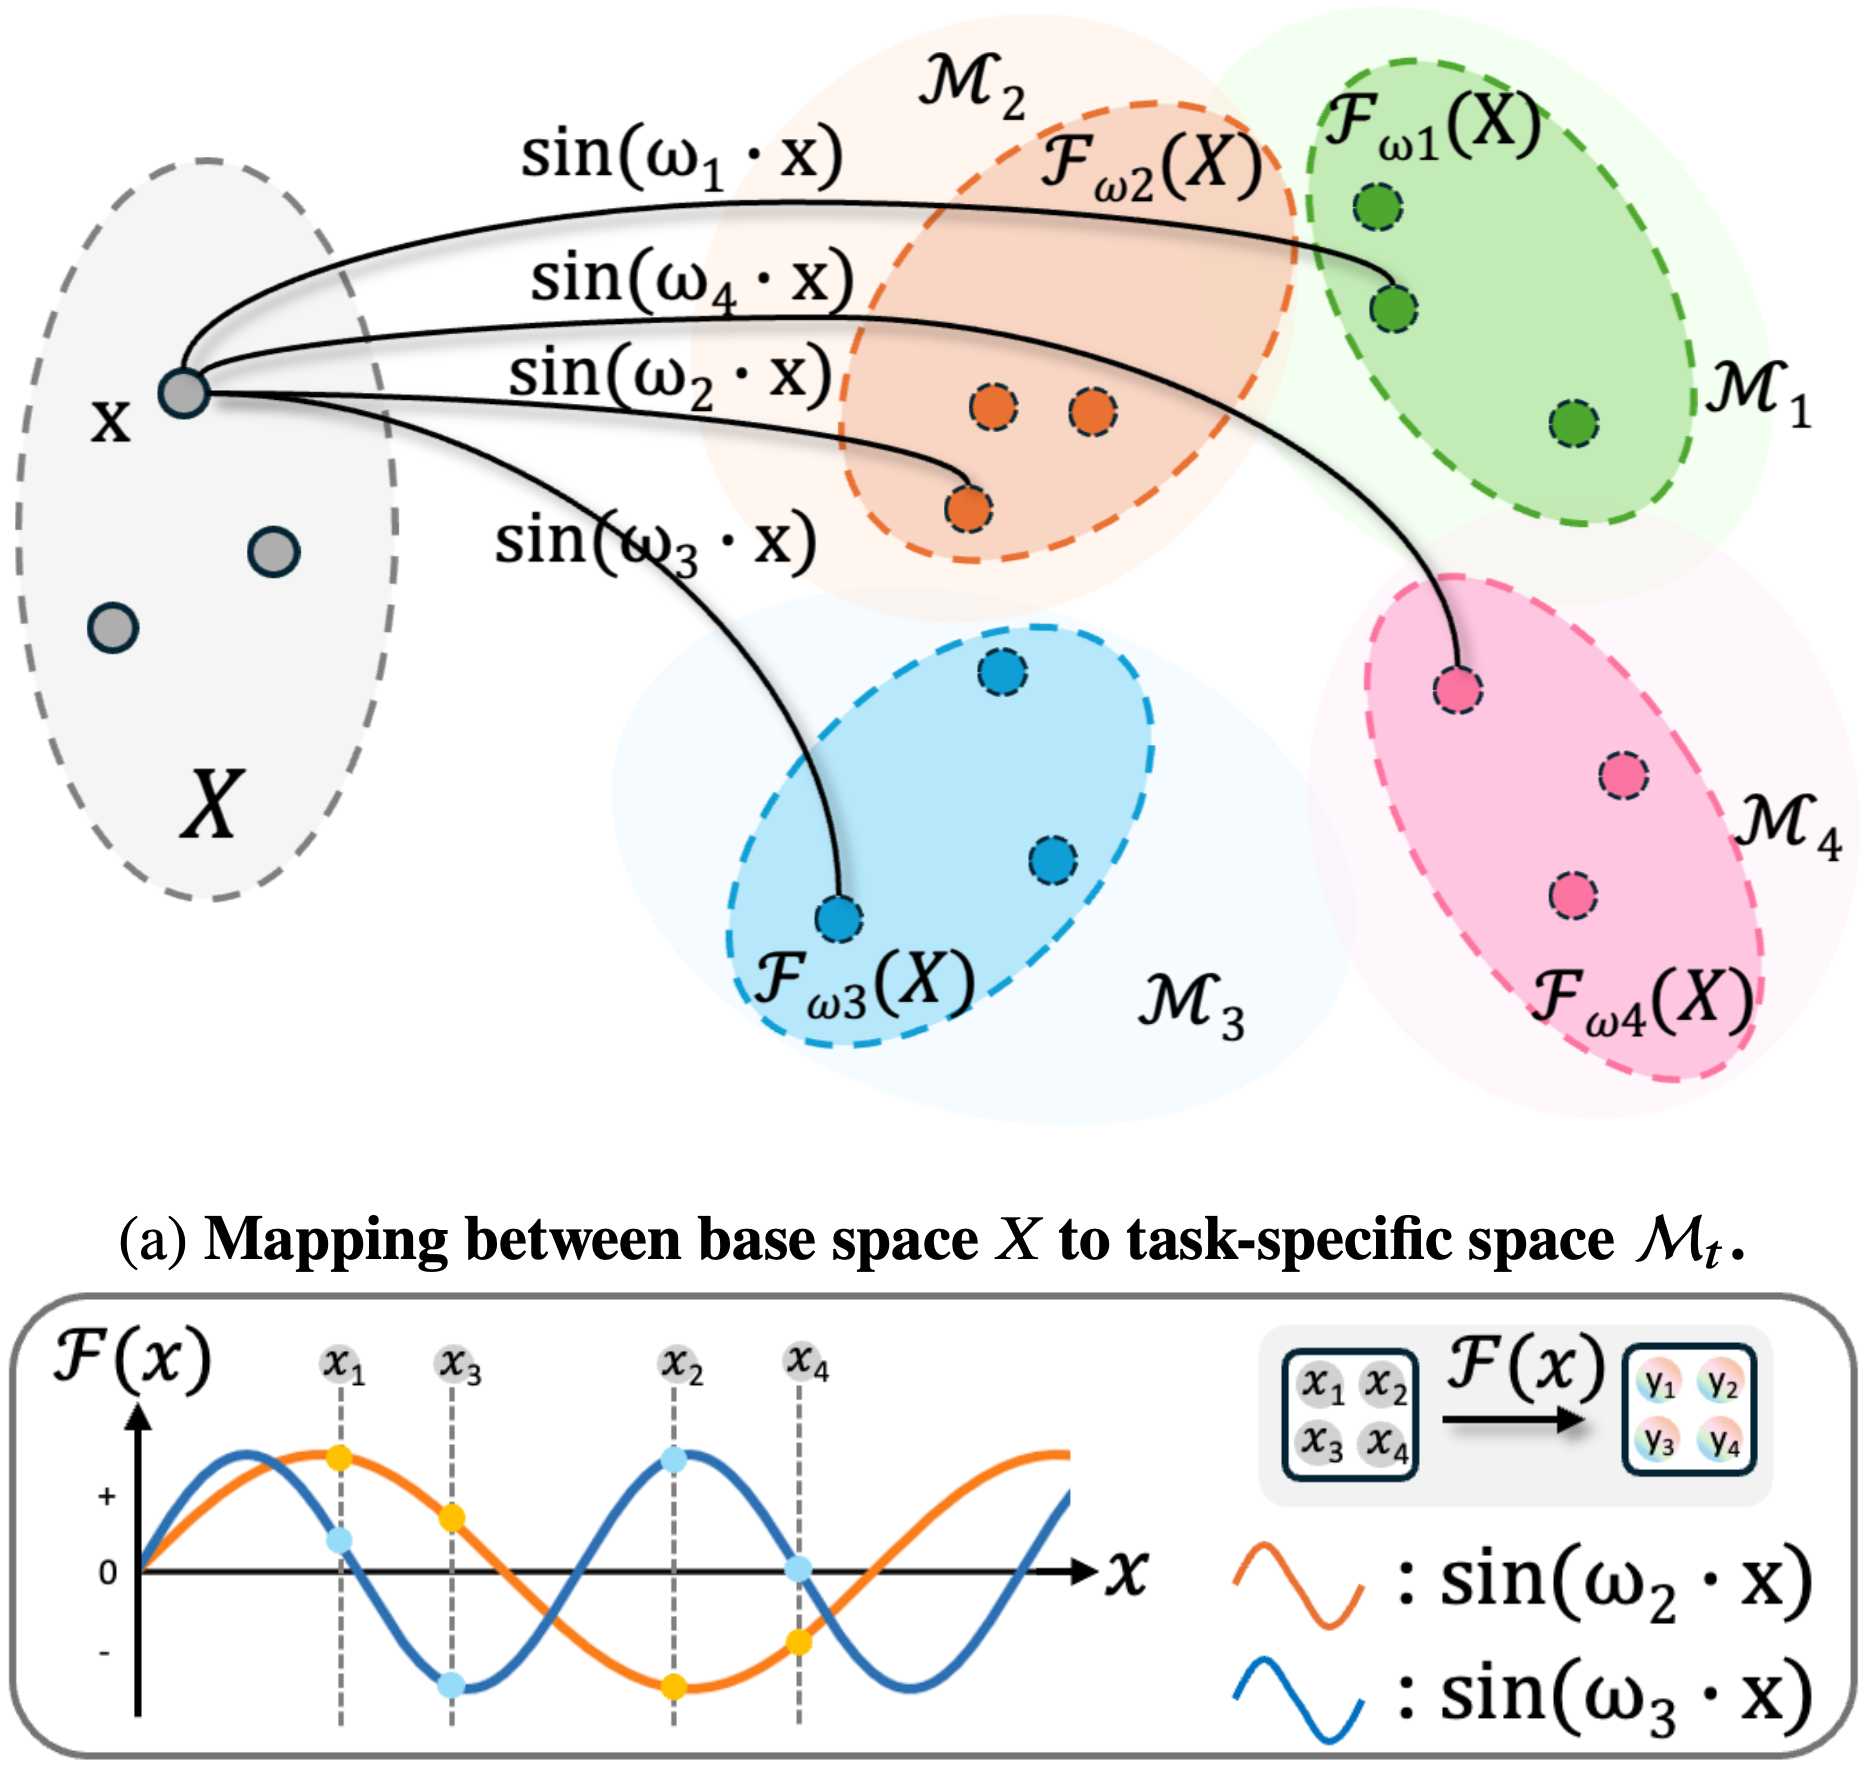
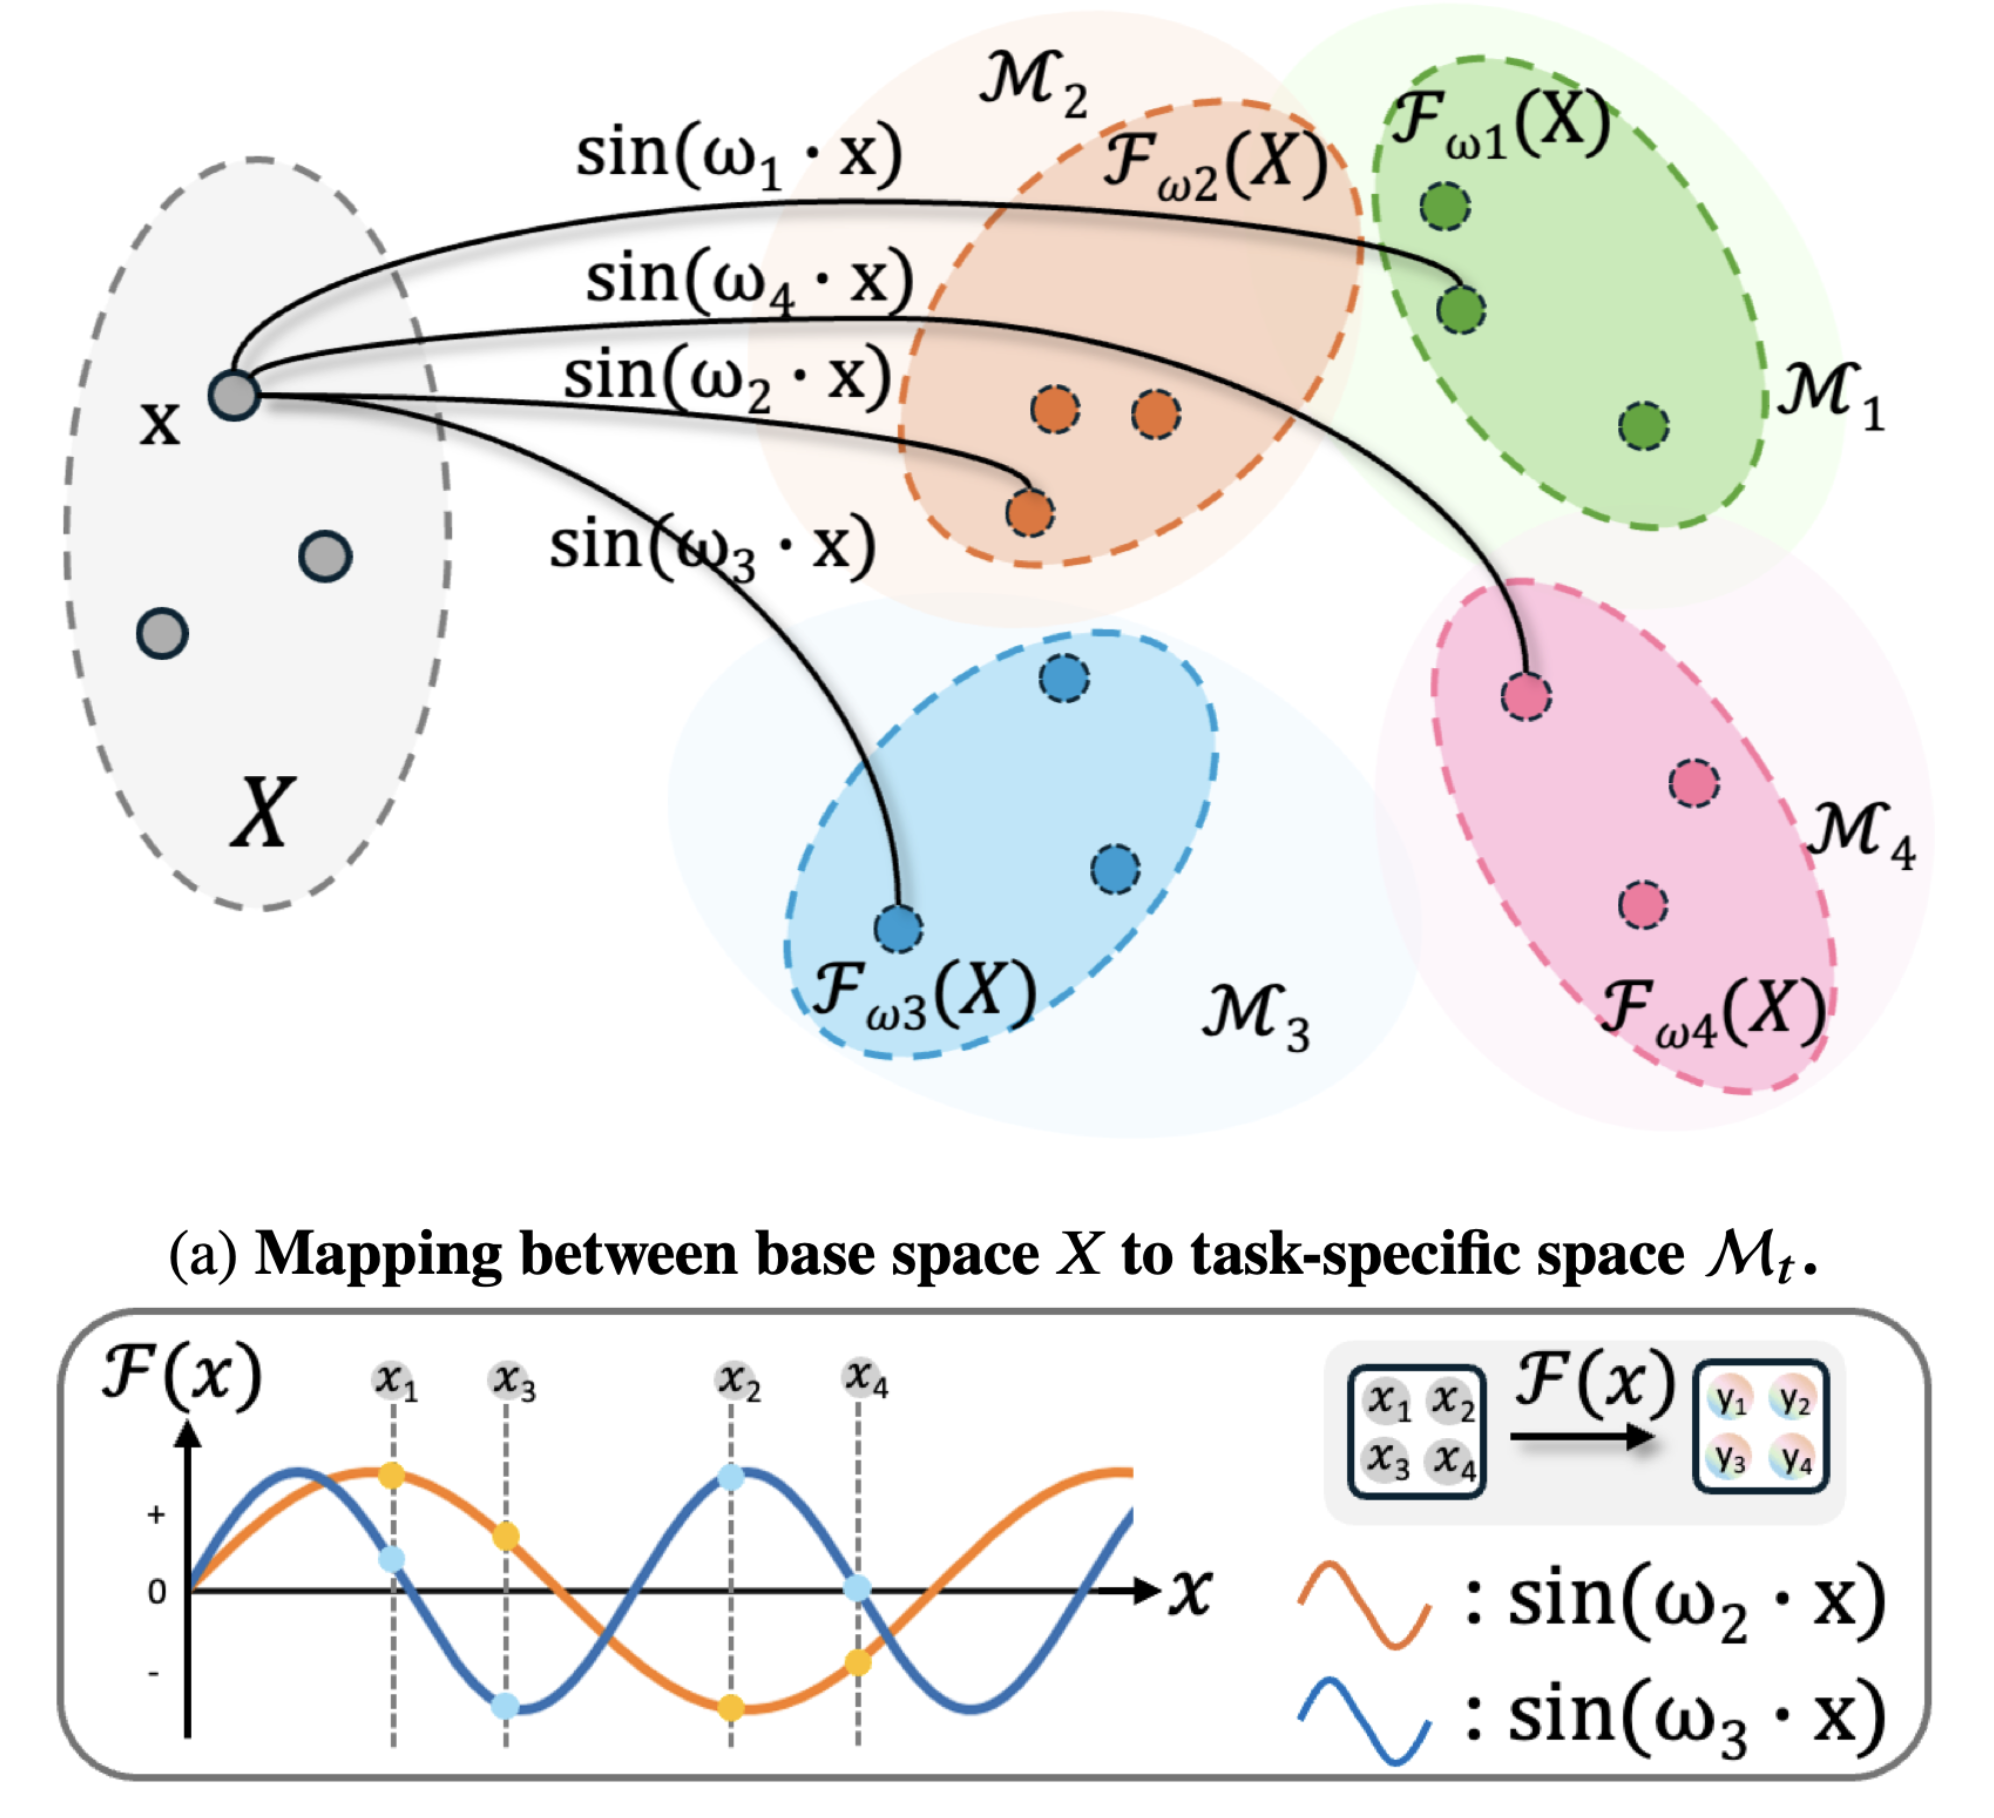
Lightmode, format update

diff --git a/index.html b/index.html
@@ -10,12 +10,15 @@
 <body>
   <!-- TOP TABS -->
   <nav class="tabs">
+    <div class="tab-links">
     <a href="#about">About</a>
     <a href="#publications">Publications</a>
     <a href="#projects">Projects</a>
-    <a href="#experience">Experience</a>
-    <a href="#award">Award</a>
     <a href="#journal">Journal</a>
+    <a href="#experience">Experience</a>
+    <!-- <a href="#award">Award</a> -->
+    </div>
+    <button id="theme-toggle">◐</button>
   </nav>
 
   <div class="layout">
@@ -46,27 +49,82 @@
     </main>
   </div>
   <script>
-    const allowed = new Set(['about','publications','projects','experience','award','journal']);
+  const allowed = new Set(['about','publications','projects','experience','award','journal']);
+  const sectionEl = document.getElementById('section');
 
-    function load(id){
-      if(!allowed.has(id)) id = 'about';
-      fetch(`sections/${id}.html`)
-        .then(r => r.text())
-        .then(html => document.getElementById('section').innerHTML = html);
+  function load(id){
+    if(!allowed.has(id)) id = 'about';
 
-      // optional: highlight active tab
-      document.querySelectorAll('.tabs a').forEach(a=>{
-        a.classList.toggle('active', a.getAttribute('href') === `#${id}`);
+    fetch(`sections/${id}.html`)
+      .then(r => r.text())
+      .then(html => {
+        sectionEl.innerHTML = html;
+
+        // highlight active tab
+        document.querySelectorAll('.tabs a').forEach(a=>{
+          a.classList.toggle('active', a.getAttribute('href') === `#${id}`);
+        });
       });
+  }
+
+  function current(){
+    return location.hash.replace('#','') || 'about';
+  }
+
+  window.addEventListener('hashchange', () => load(current()));
+  load(current());
+
+  // ✅ Journal click handling (dynamic content)
+  sectionEl.addEventListener('click', (e) => {
+    const openBtn = e.target.closest('.journal-open');
+    const backBtn = e.target.closest('.journal-back');
+
+    if (openBtn) {
+      const target = openBtn.dataset.entry;
+      const listView = sectionEl.querySelector('#journal-list');
+      const entryView = sectionEl.querySelector('#journal-entry');
+      const entries = sectionEl.querySelectorAll('.journal-entry-content');
+
+      if (!listView || !entryView) return;
+
+      listView.classList.remove('active');
+      entryView.classList.add('active');
+
+      entries.forEach(x => x.classList.remove('active'));
+      const targetEl = sectionEl.querySelector(`#${CSS.escape(target)}`);
+      if (targetEl) targetEl.classList.add('active');
     }
 
-    function current(){
-      return location.hash.replace('#','') || 'about';
-    }
+    if (backBtn) {
+      const listView = sectionEl.querySelector('#journal-list');
+      const entryView = sectionEl.querySelector('#journal-entry');
+      const entries = sectionEl.querySelectorAll('.journal-entry-content');
 
-    window.addEventListener('hashchange', () => load(current()));
-    load(current());
-  </script>
+      if (!listView || !entryView) return;
+
+      entryView.classList.remove('active');
+      listView.classList.add('active');
+      entries.forEach(x => x.classList.remove('active'));
+    }
+  });
+
+  // ✅ Theme toggle (should be global, not inside section click)
+  const toggleBtn = document.getElementById('theme-toggle');
+
+  function setTheme(mode){
+    document.body.classList.toggle('light', mode === 'light');
+    localStorage.setItem('theme', mode);
+    toggleBtn.textContent = mode === 'light' ? '◐' : '◑';
+  }
+
+  toggleBtn.addEventListener('click', () => {
+    const isLight = document.body.classList.contains('light');
+    setTheme(isLight ? 'dark' : 'light');
+  });
+
+  // Load saved theme
+  setTheme(localStorage.getItem('theme') || 'light');
+</script>
   
 </body>
 </html>

diff --git a/style.css b/style.css
@@ -9,6 +9,7 @@
   --accent: #FFD700;       /* arcade yellow */
   --text: #f0f0f0;         /* soft light gray */
   --border: #273c75;       /* muted royal blue */
+  --avatar-color: #33cc33;
 }
 
 * { box-sizing: border-box; margin: 0; padding: 0; }
@@ -22,7 +23,19 @@ body {
   height: 100vh;
   display: flex;
   flex-direction: column;
+  transition: background 0.3s ease, color 0.3s ease;
 }
+
+body.light {
+  --bg: #f6f8fc;            /* soft academic gray */
+  --sidebar-bg: #ffffff;    /* clean white */
+  --content-bg: #ffffff;    /* clean content card */
+  --accent: #b8860b;        /* elegant gold (less neon) */
+  --text: #1c1c1c;          /* deep charcoal */
+  --border: #dcdfe6;        /* subtle divider */
+  --avatar-color: #0f9d58;
+}
+
 .center-text {
   text-align: center;
 }
@@ -30,9 +43,14 @@ body {
 /* TOP TABS */
 .tabs {
   display: flex;
-  justify-content: center;
+  align-items: center;
+  padding: 0 10rem;
   background: var(--sidebar-bg);
   border-bottom: 1px solid var(--border);
+}
+.tab-links {
+  margin: 0 auto;   /* center the links */
+  display: flex;
 }
 .tabs a {
   padding: 0.8rem 1rem;
@@ -45,6 +63,20 @@ body {
   background: var(--accent);
   color: var(--sidebar-bg);
 }
+
+.tabs button {
+  background: none;
+  border: none;
+  color: var(--accent);
+  font: inherit;
+  cursor: pointer;
+  padding: 0;
+  /* margin-left: auto; */
+}
+
+/* .tabs button:hover {
+  text-decoration: underline;
+} */
 
 .layout {
   display: flex;
@@ -78,7 +110,8 @@ body {
   font-size: 0.8rem;
   text-transform: uppercase;
   letter-spacing: 1px;
-  color: #33cc33;
+  /* color: #33cc33; */
+  color: var(--avatar-color);
   text-align: center;
   margin: 0.5rem 0 1rem;
   line-height: 1.2;
@@ -152,7 +185,7 @@ body {
   margin-bottom: 1.2rem;
 }
 .keyword {
-  color: #33cc33; /* green */
+  color: var(--avatar-color); /* green */
   /* font-weight: bold; */
 }
 
@@ -343,3 +376,31 @@ body {
 }
 
 
+.journal-view { display: none; }
+.journal-view.active { display: block; }
+
+.journal-index { list-style: none; padding: 0; margin-top: 1.5rem; }
+.journal-index li { margin-bottom: 1rem; }
+
+.journal-index button {
+  background: none; border: none;
+  color: var(--accent);
+  font-weight: bold;
+  cursor: pointer;
+  font-size: 1rem;
+  padding: 0;
+}
+.journal-index button:hover { text-decoration: underline; }
+
+.journal-entry-content { display: none; margin-top: 1.5rem; }
+.journal-entry-content.active { display: block; }
+
+.journal-back {
+  background: none;
+  border: none;
+  /* color: white;           make it white */
+  cursor: pointer;
+  padding: 0;
+  font-size: 1.3rem;      /* bigger text */
+  font-weight: bold;      /* stronger presence */
+}

diff --git a/sections/projects.html b/sections/projects.html
@@ -54,7 +54,7 @@
       </div>
       <div class="pub-details">
         <p>
-          <strong>Jetson Nano Real-Time AR Teaching System</strong> [<a href="https://youtu.be/nU0tPs8JyeI" target="_blank">Demo Video</a>]
+          <strong>Jetson Nano Real-Time AR Teaching System</strong> <a href="https://youtu.be/nU0tPs8JyeI" target="_blank">[Demo Video]</a>
         </p>
         <ul>
           <li>Interactive AR platform with live video overlay &amp; image processing on Jetson Nano.</li>
@@ -69,7 +69,7 @@
       </div>
       <div class="pub-details">
         <p>
-          <strong>Desiary - A Novel Diary-Dating App</strong> [<a href="https://youtu.be/t9eveYLJWcg" target="_blank">Demo Video</a>] 
+          <strong>Desiary - A Novel Diary-Dating App</strong> <a href="https://youtu.be/t9eveYLJWcg" target="_blank">[Demo Video]</a>
         </p>
         <ul>
           <li>Diary-to-image app using Stable Diffusion &amp; LoRA</li>
@@ -85,7 +85,7 @@
       </div>
       <div class="pub-details">
         <p>
-          <strong>Newsbie - Your Little News Reporter</strong> [<a href="https://youtu.be/Knizll__Jsk" target="_blank">Demo Video</a>] 
+          <strong>Newsbie - Your Little News Reporter</strong> <a href="https://youtu.be/Knizll__Jsk" target="_blank">[Demo Video]</a>
         </p>
         <ul>
           <li>Web-scraping news summarizer using LLMs</li>
@@ -133,7 +133,7 @@
       </div>
       <div class="pub-details">
         <p>
-          <strong>Glomerular Disease Detection &amp; Classification</strong> [<a href="https://youtu.be/8mZi98sBVvk" target="_blank">Report Video</a>]
+          <strong>Glomerular Disease Detection &amp; Classification</strong> <a href="https://youtu.be/8mZi98sBVvk" target="_blank">[Report Video]</a>
         </p>
         <ul>
           <li>12x speed-up via entropy-based filtering &amp; MedViT ensemble for high-accuracy pathology AI.</li>

diff --git a/sections/journal.html b/sections/journal.html
@@ -1,0 +1,33 @@
+<section id="journal">
+
+  <!-- LIST VIEW -->
+  <div class="journal-view active" id="journal-list">
+    <h2>Journal</h2>
+    <ul class="journal-index">
+      <li><button class="journal-open" data-entry="entry1">2026-02-24 — Building Journal</button></li>
+      <li><button class="journal-open" data-entry="entry2">2026-02-21 — CVPR Reflection</button></li>
+      <li><button class="journal-open" data-entry="entry3">2026-02-20 — Portfolio Refactor</button></li>
+    </ul>
+  </div>
+
+  <!-- ENTRY VIEW -->
+  <div class="journal-view" id="journal-entry">
+    <button class="journal-back">← Back</button>
+
+    <div class="journal-entry-content" id="entry1">
+      <h3>2026-02-24 — Building Journal</h3>
+      <p>...</p>
+    </div>
+
+    <div class="journal-entry-content" id="entry2">
+      <h3>2026-02-21 — CVPR Reflection</h3>
+      <p>...</p>
+    </div>
+
+    <div class="journal-entry-content" id="entry3">
+      <h3>2026-02-20 — Portfolio Refactor</h3>
+      <p>...</p>
+    </div>
+  </div>
+
+</section>

diff --git a/sections/publications.html b/sections/publications.html
@@ -13,8 +13,8 @@
         </p>
         <ul>
           <li><strong>Shih-Wen Liu</strong>, Yen-Chang Chen, Wei-Ta Chu, Fu-En Yang, Yu-Chiang Frank Wang</li>
+          <li>Accepted to the IEEE/CVF Conference on Computer Vision and Pattern Recognition (CVPR), 2026</li>
           <li>Keyword: Multi-Task Learning, Parameter-Efficient Fine-Tuning, Frequency Switching</li>
-          <!-- <li>The Conference of Medical Imaging with Deep Learning (MIDL), 2025</li> -->
         </ul>
       </div>
     </li>
@@ -29,7 +29,7 @@
         </p>
         <ul>
           <li><strong>Shih-Wen Liu</strong>, Hsuan-Yu Fan, Wei-Ta Chu, Fu-En Yang, Yu-Chiang Frank Wang</li>
-          <li>The Conference of Medical Imaging with Deep Learning (MIDL), 2025</li>
+          <li>Accepted to Medical Imaging with Deep Learning (MIDL), 2025</li>
           <li>Keyword:  Multimodal In-Context Learning, Medical Report Generation, Pathology Images, Vision-Language Models</li>
         </ul>
       </div>

diff --git a/sections/experience.html b/sections/experience.html
@@ -54,3 +54,22 @@
     </li>
   </ul>
 </section>
+
+<section id="award">
+  <h2>Awards & Others</h2>
+  <ul>
+    <li>
+      <strong>Best Team Award</strong> - Critical Care Data Science Conference &amp; Taiwan Datathon 2024  
+      Received for outstanding team collaboration and high-performance ICU data analysis with senior clinicians.
+    </li>
+    <li>
+      <strong>Academic Excellence Award</strong> - NSYSU 2020
+    </li>
+    <li>
+      <strong>Paper Reviewer</strong>, ACM Multimedia Asia (MMAsia)
+    </li>
+    <li>
+      <strong>Paper Reviewer</strong>, IEEE Transactions on Multimedia (TMM)
+    </li>
+  </ul>
+</section>
